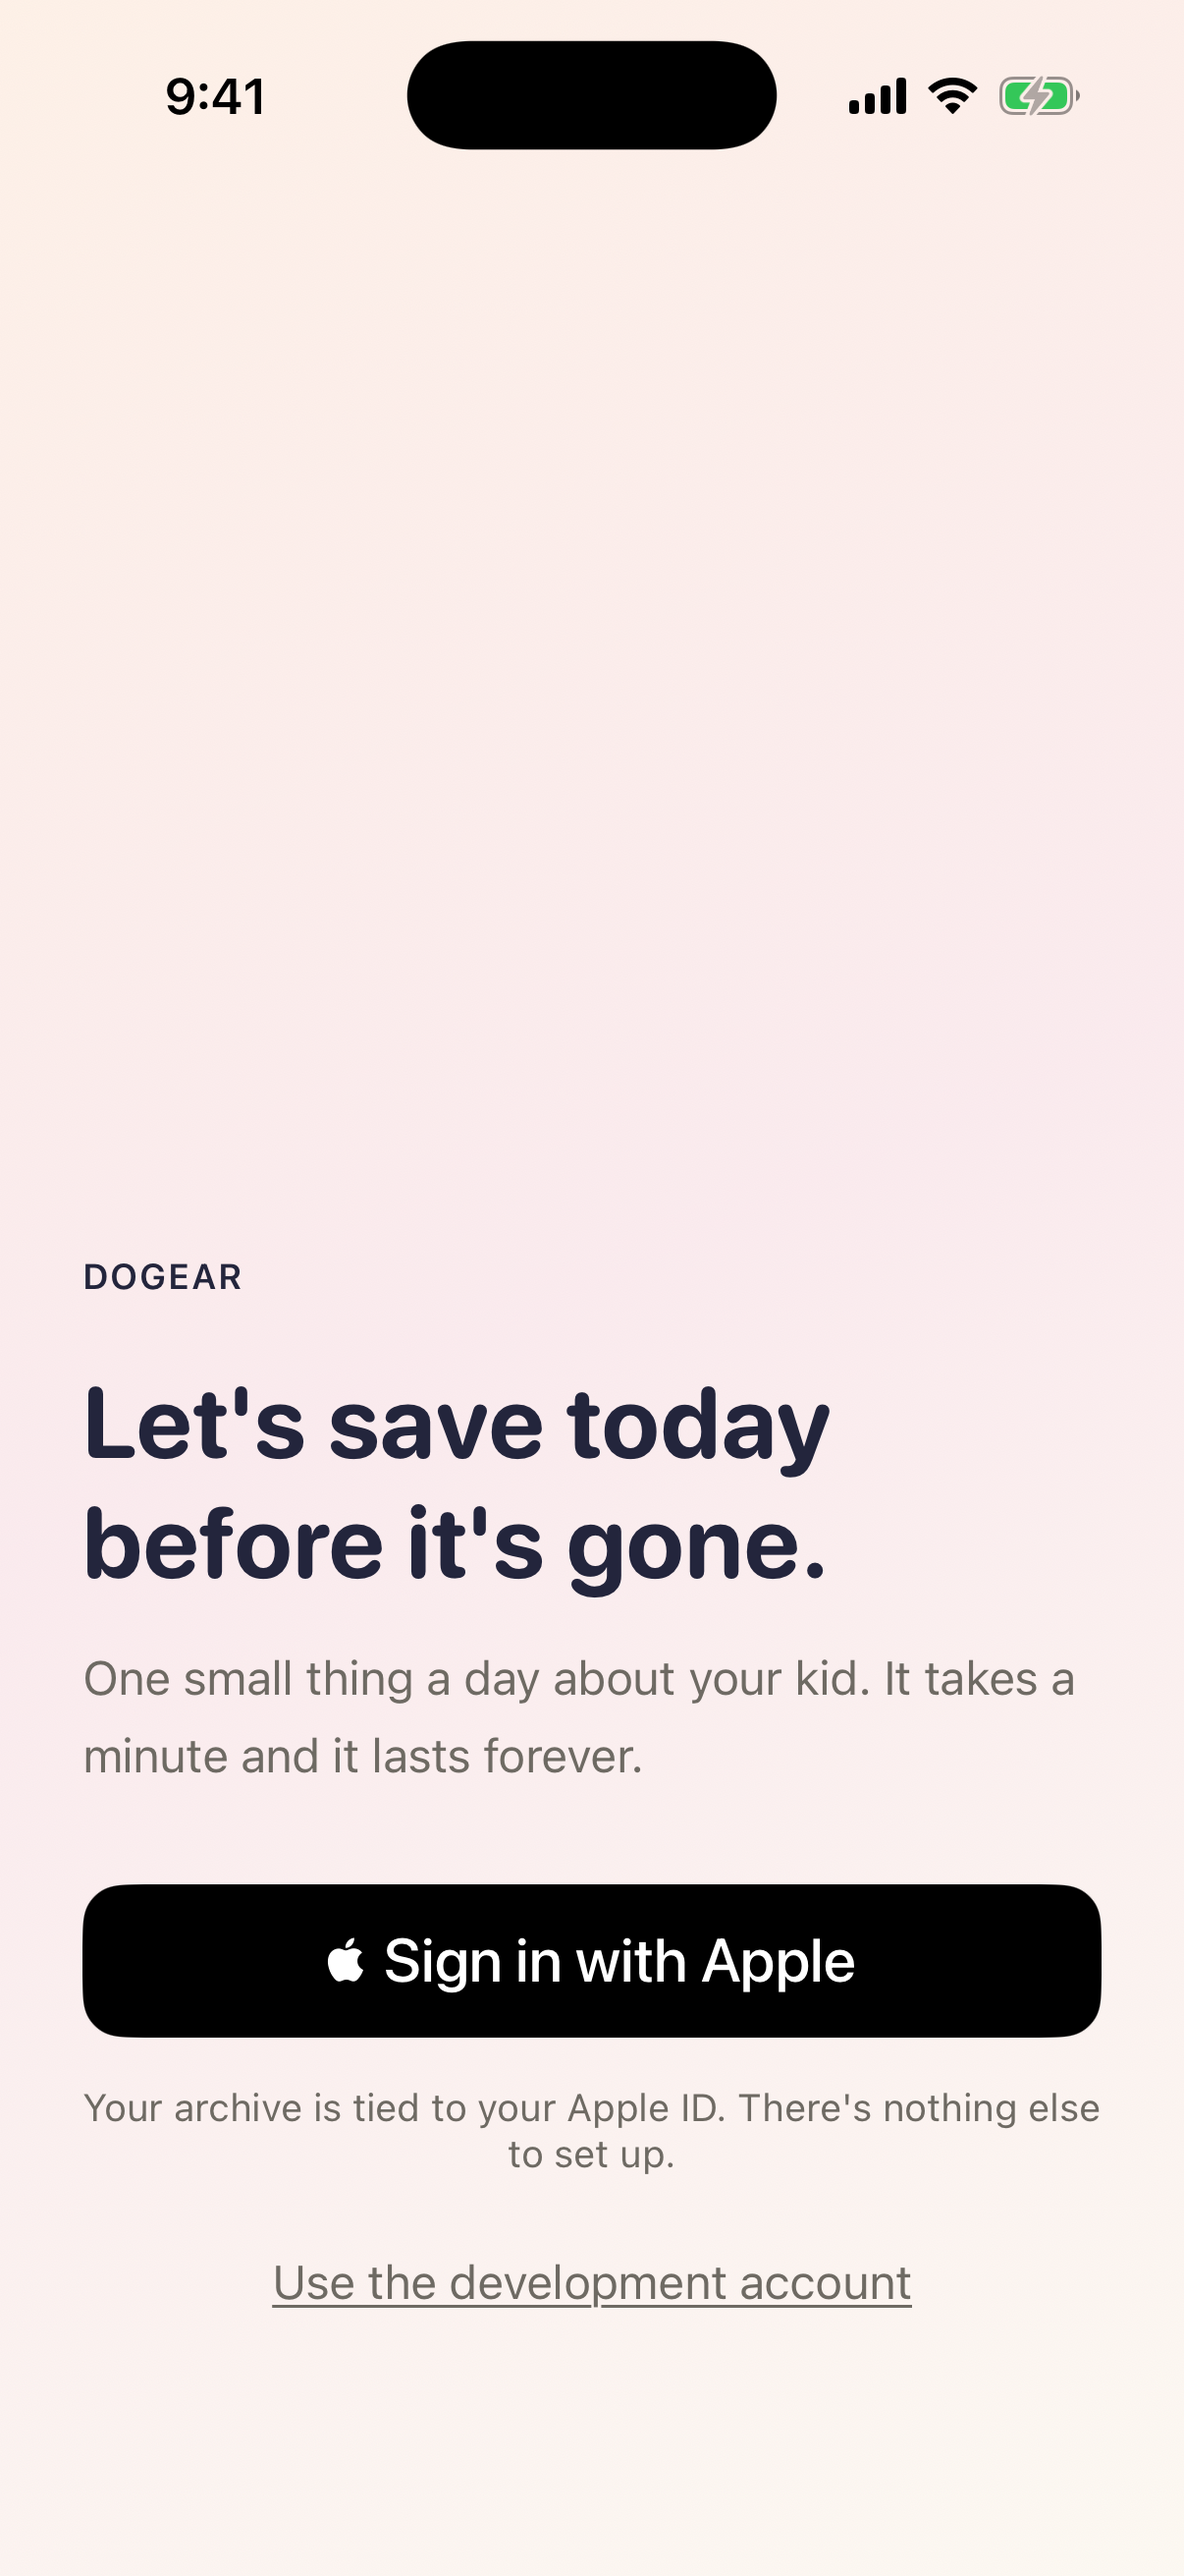
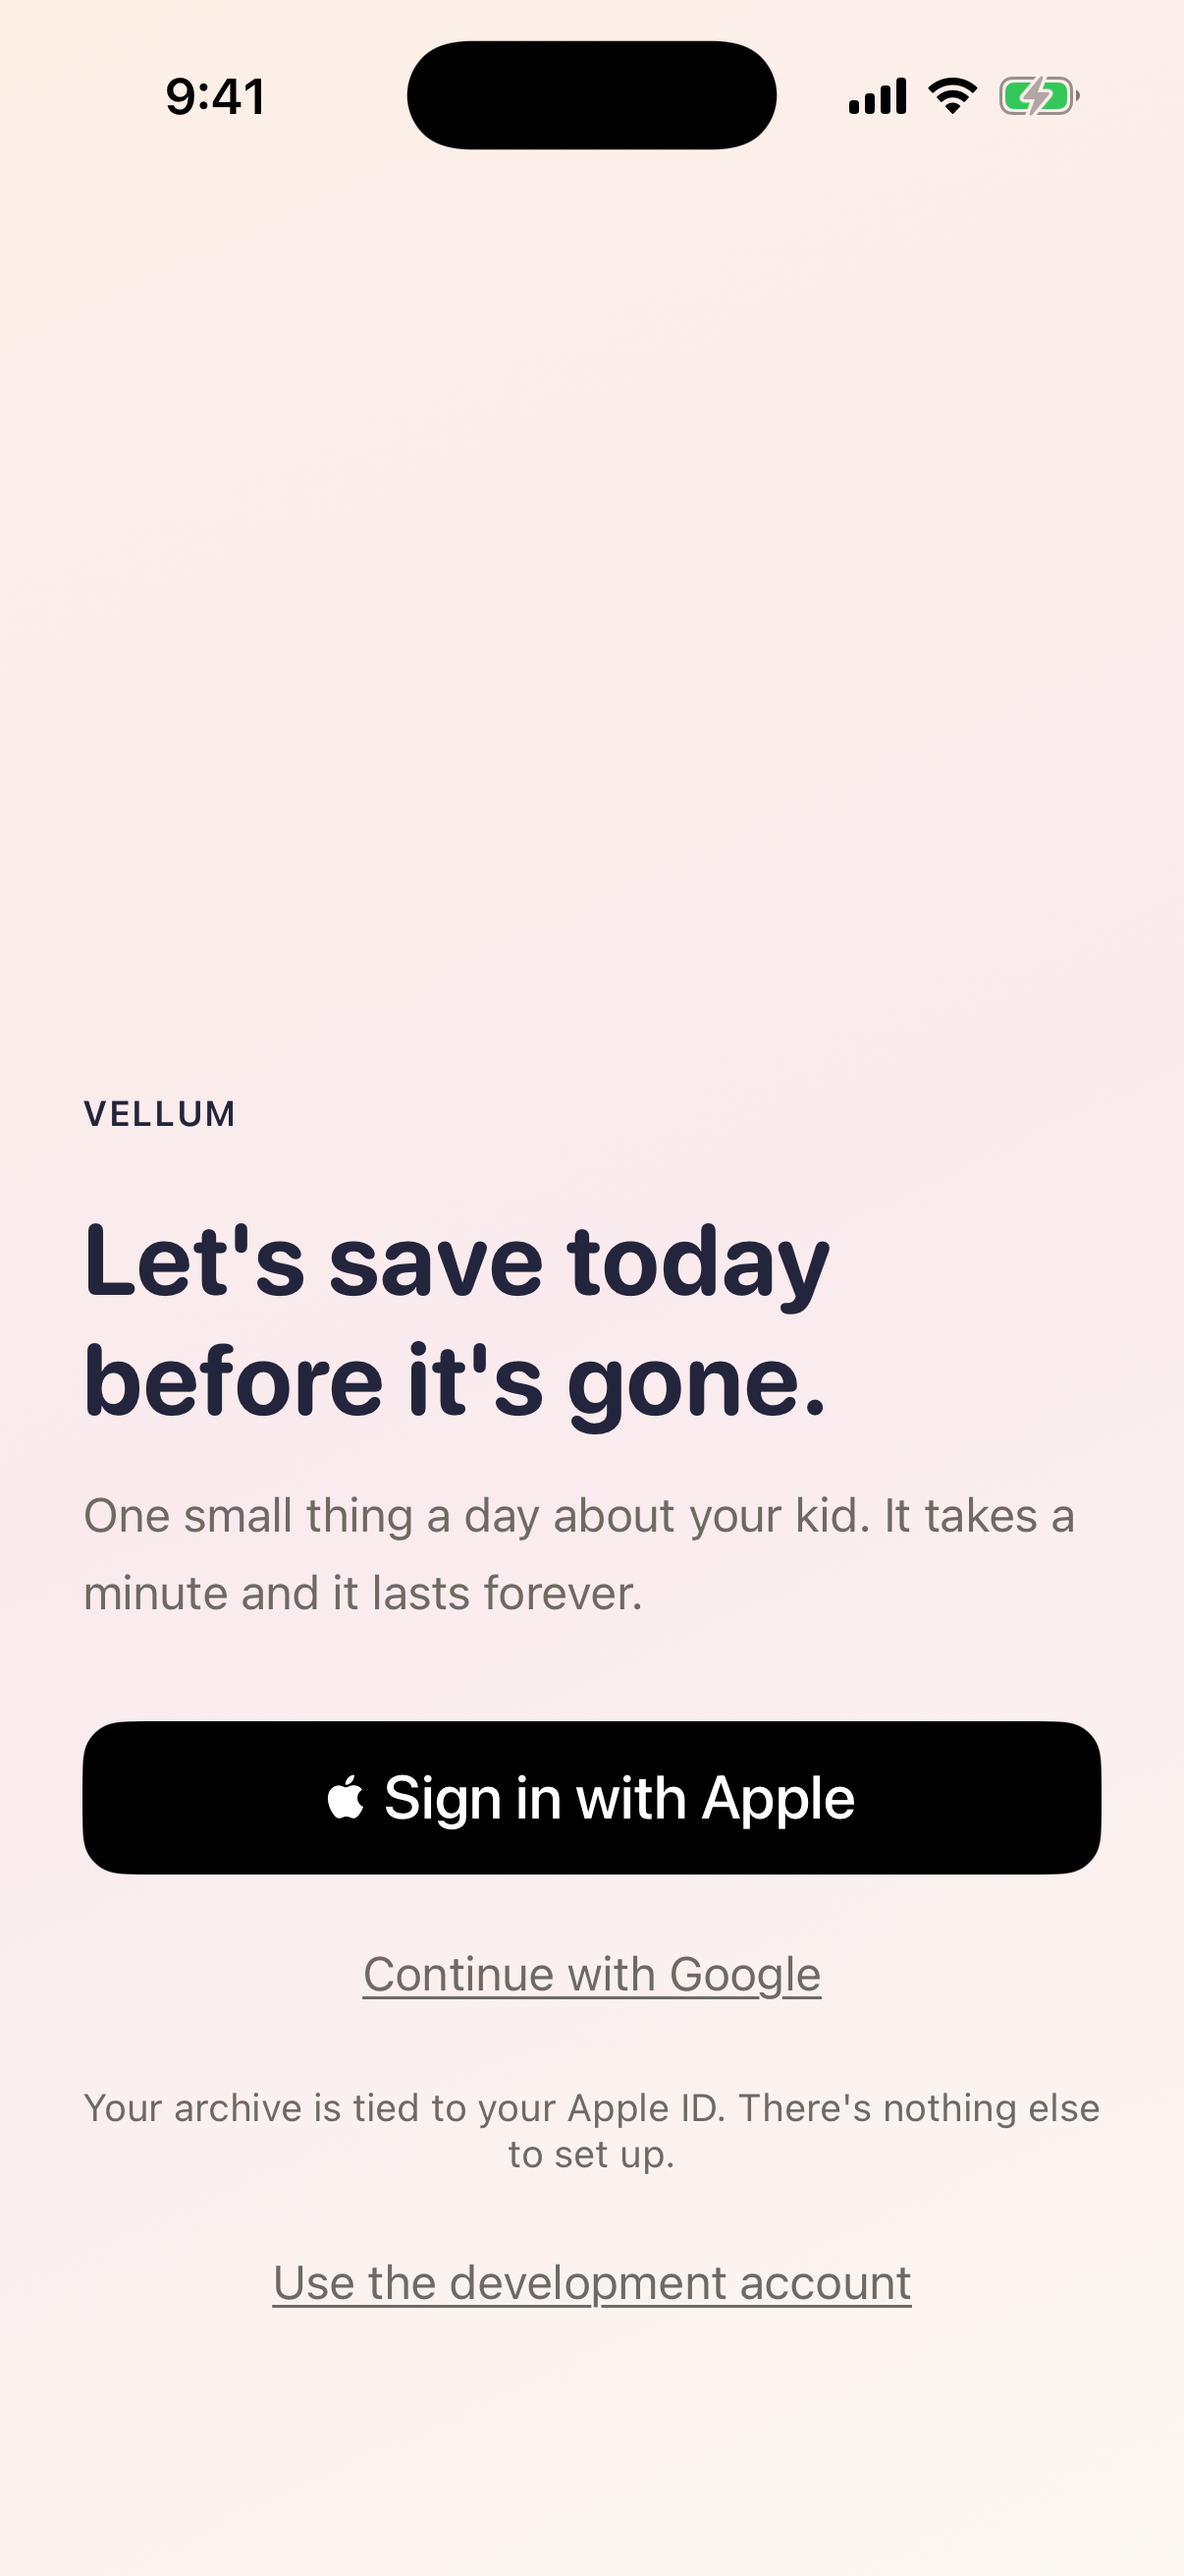
Re-capture onboarding-welcome.png; the eyebrow says VELLUM
The last screenshot carrying the old name is replaced. Captured off a device
from main after the iOS rename merged, with CFBundleDisplayName verified as
Vellum in the built .app rather than only in source. Same 1206x2622, same 9:41
status bar. Checked by eye before committing, not just by dimensions.

Its rating goes back to three stars and the do-not-publish warning is gone —
that warning existed only because the branding was stale, and it isn't now.

Two changes came from the app, not the capture: a "Continue with Google" row
(Google sign-in shipped after the original Aug 12 capture) and a slight upward
shift to fit it.

That surfaced something worth catching before anyone publishes this. The
supporting line still reads "Your archive is tied to your Apple ID. There's
nothing else to set up." — which stopped being true the moment a second sign-in
path shipped. It is an in-app copy bug, filed against the app rather than
patched here, but it is recorded next to the screenshot because this file is
rated for its ready-made hero copy and part of that copy is now wrong. Crop
below the Apple button, or wait for the line to be fixed.

The "Use the development account" link is still there. So was it in the file
this replaces; caveat 4 already tracks it. Removing it needs a Release build,
which is a different job.

Changed region(s): [[0.0614, 0.4634, 0.9511, 0.8032], [0.7977, 0.587, 0.859, 0.6178]]

diff --git a/assets/README.md b/assets/README.md
@@ -100,23 +100,29 @@ its own; ★★ supports one; ★ is a reference capture.
 
 #### Onboarding — the "it takes a minute" argument
 
-> **⚠ Stale branding — `onboarding-welcome.png` only.** The product was renamed from
-> **Dogear** to **Vellum** on Aug 17 2026. These are captures off a real device, so the
-> in-app name is baked into the pixels and cannot be fixed from this repo — it needs the
-> iOS app rebuilt with the new `CFBundleDisplayName` and a fresh capture.
+> **Re-captured Aug 18 2026 for the Vellum rename — resolved.** `onboarding-welcome.png` was
+> the only screenshot here that showed the product name (a `DOGEAR` eyebrow). It was
+> re-captured off a device from `main` after the iOS rename merged, with
+> `CFBundleDisplayName` verified as **Vellum** in the built `.app` rather than only in
+> source. Same 1206×2622, same 9:41 status bar; the eyebrow now reads `VELLUM`.
 >
-> Every screenshot in `assets/screens/` was checked against this. **`onboarding-welcome.png`
-> is the only one that shows the product name**, as a `DOGEAR` eyebrow label above the
-> headline. All the others are in-app content screens whose chrome is generic (TODAY /
-> TIMELINE / MOMENTS / SETTINGS), so they survive the rename untouched — including all seven
-> used on the live site, which were verified individually.
+> Every other screenshot was checked individually and needed nothing — they are in-app
+> content screens whose chrome is generic (TODAY / TIMELINE / MOMENTS / SETTINGS). That
+> includes all seven used on the live site.
 >
-> Its rating dropped ★★★ → ★ for that reason alone. The copy is still the best hero line
-> the app has; it just cannot be shown until it is re-captured.
+> **Two things changed with the app, not with the capture.** The screen gained a "Continue
+> with Google" row (Google sign-in shipped in phases 55/58, after the original Aug 12
+> capture), and the layout shifts up slightly to fit it.
+>
+> **And that creates a copy problem worth knowing before you publish this.** The supporting
+> line still reads *"Your archive is tied to your Apple ID. There's nothing else to set up."*
+> — which is no longer true for anyone who takes the Google path. That is an in-app copy
+> bug, not a capture artefact, and it is filed against the app rather than fixed here. Crop
+> below the Apple button, or wait for the app to fix the line, before using this as a hero.
 
 | File | What it shows | Good for | |
 |---|---|---|---|
-| `onboarding-welcome.png` | *"Let's save today before it's gone."* under a **`DOGEAR`** eyebrow, with Sign in with Apple | Hero copy is still good. **The branding is the OLD NAME — do not publish this as-is.** See the warning above | ★ |
+| `onboarding-welcome.png` | *"Let's save today before it's gone."* under a **`VELLUM`** eyebrow, with Sign in with Apple and Continue with Google | Ready-made hero copy, and correct branding. **Crop out the "Use the development account" link — and see the Apple ID caveat above before using the sub-headline** | ★★★ |
 | `onboarding-pronouns.png` | *"What are Hendrix's pronouns?"* — he/him, she/her, they/them | **Directly answers the site's they/them position**, and evidence the app was built for it. Worth its own post | ★★★ |
 | `onboarding-birthdate.png` | A date wheel: *"It's what stamps every entry with an exact age, forever."* | Explains the age-stamping the timeline shows. Good second panel in a carousel | ★★ |
 | `onboarding-notifications.png` | *"One note a day? … Never more than one. Off whenever you want."* | The anti-engagement promise, in the app's own words. Strong for a privacy/calm-tech angle | ★★ |
